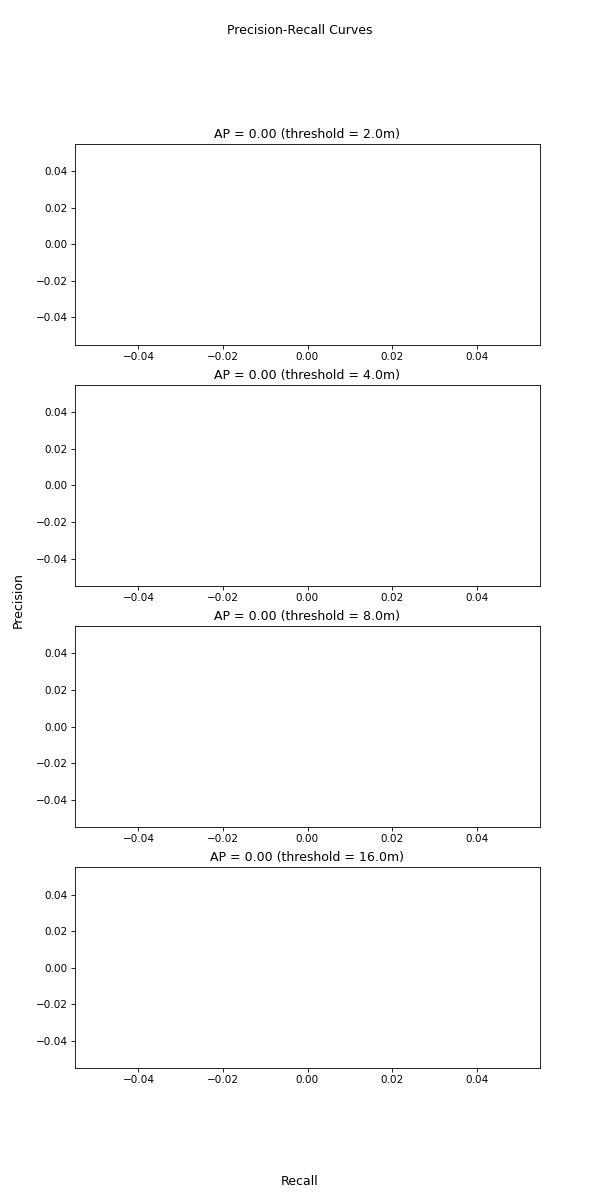
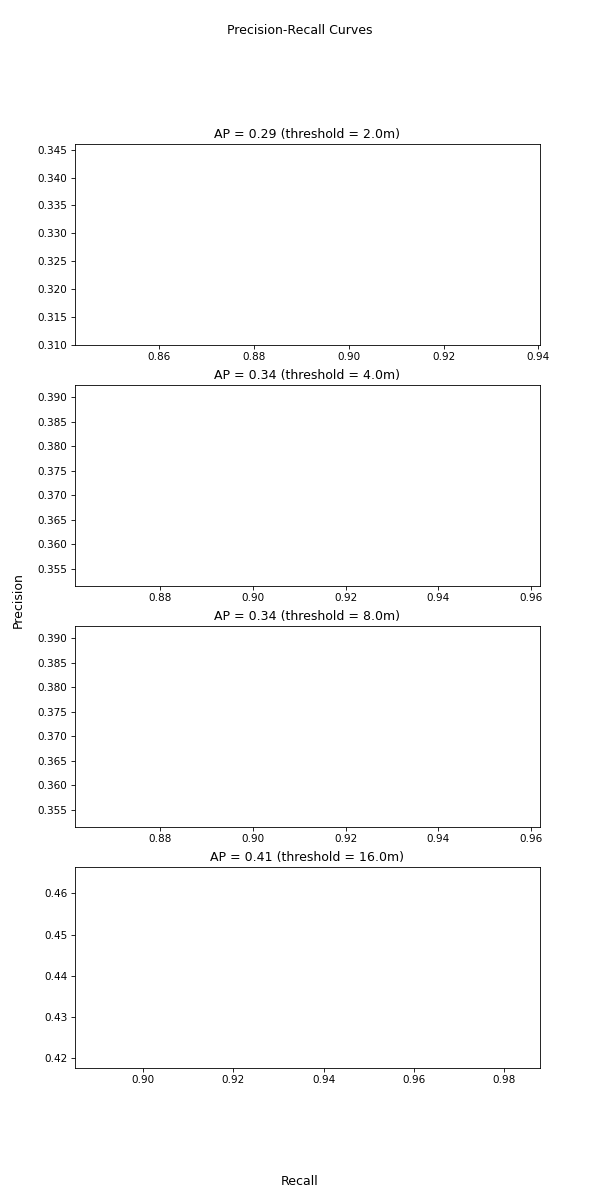
!!!!

diff --git a/detection/metrics/average_precision.py b/detection/metrics/average_precision.py
@@ -75,36 +75,42 @@ def compute_precision_recall_curve(
         cdist = torch.cdist(detections, labels, p=2)
         precision = []
         recall = []
+        # print(torch.sum(cdist <= threshold)) # 216
         # record for labels matching
         labels_record = torch.zeros(labels.size()[0])
-        print(labels_record.size())
         for i in range(detections.size()[0]):
             # Computing TP/FP 
             # Step 1: the Euclidean distance between their centers is at most `threshold`; 
             # Get labels for one detection satisfying threshold
             under = cdist[i] <= threshold
-            under_ind = under.nonzero()
+            
+            under_ind = under.nonzero() #torch.Size([n, 1])
             # Step 2: no higher scoring detection satisfies condition step1 with respect to the same label.
-            matched_labels = cdist[i][under_ind] >= cdist[:, under_ind]
-            matched_labels = matched_labels.permute(1, 0, 2)
+            label_col = cdist[:, under_ind] <= threshold
+            matched_labels = cdist[i][under_ind] >= cdist[:, label_col]#torch.Size([1, 1]) torch.Size([500, 1, 1]) torch.Size([500, 1, 1])
+            # print("before", matched_labels.size())
+            # matched_labels = matched_labels.permute(1, 0, 2)
+            # print("after", matched_labels.size())
             # Check if the detection satisfying any labels
-            matched_labels = torch.squeeze(matched_labels)
+            true_labels = torch.any(torch.all(matched_labels, 0))
+            # print(1, torch.all(matched_labels, 0))
+            # print(2, true_labels)
             # result = torch.any(torch.all(matched_labels, 1))
-            result = torch.sum(matched_labels)
+            result = torch.sum(true_labels)
             TP += result
             FP += 1 - result
 
             # Computing FN
             # record matched detections for each label
-            labels_ind = matched_labels.nonzero()
-            # # Get index of all matched labels
-            # lables_ind = under_ind[labels_det] 
+            labels_det = torch.all(matched_labels, 0)
+            # Get index of all matched labels
+            lables_ind = under_ind[labels_det] 
             # Update record of labels
-            labels_record[labels_ind] += 1
+            labels_record[lables_ind] += 1
         FN += labels.size()[0] - torch.count_nonzero(labels_record)
+        print(3, TP, FP)
         precision.append(TP / (TP + FP))
         recall.append(TP / (TP + FN))
-        print(recall)
     return PRCurve(torch.tensor(precision), torch.tensor(recall))
 
 
@@ -124,23 +130,23 @@ def compute_area_under_curve(curve: PRCurve) -> float:
         The area under the curve, as defined above.
     """
     # TODO: Replace this stub code.
-    return torch.sum(curve.recall).item() * 0.0
+    # return torch.sum(curve.recall).item() * 0.0
 
-    # # PRCurve: precision: torch.Tensor + recall: torch.Tensor
-    # # Follow instructions, r_0 = 0.0
-    # # Prepare p
-    # p = curve.precision
-    # # Prepare r
-    # r = curve.recall
-    # # copy r
-    # c_range  = [i for i in range(0, r.size()[0] - 1)]
-    # range_tensor = torch.Tensor(c_range).int()
-    # copy = torch.zeros(r.size())
-    # c = copy.index_add_(0, range_tensor + 1, r[c_range])
-    # # r_i - r_{i - 1}
-    # r_minus = r - c
-    # AP = torch.sum(r_minus * p)
-    # return AP
+    # PRCurve: precision: torch.Tensor + recall: torch.Tensor
+    # Follow instructions, r_0 = 0.0
+    # Prepare p
+    p = curve.precision
+    # Prepare r
+    r = curve.recall
+    # copy r
+    c_range  = [i for i in range(0, r.size()[0] - 1)]
+    range_tensor = torch.Tensor(c_range).int()
+    copy = torch.zeros(r.size())
+    c = copy.index_add_(0, range_tensor + 1, r[c_range])
+    # r_i - r_{i - 1}
+    r_minus = r - c
+    AP = torch.sum(r_minus * p)
+    return AP
 
 
 def compute_average_precision(
